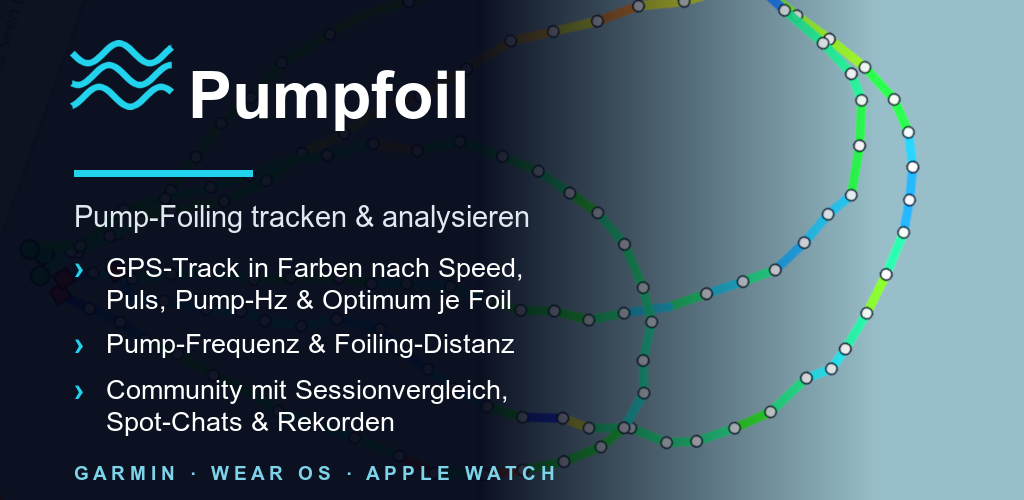
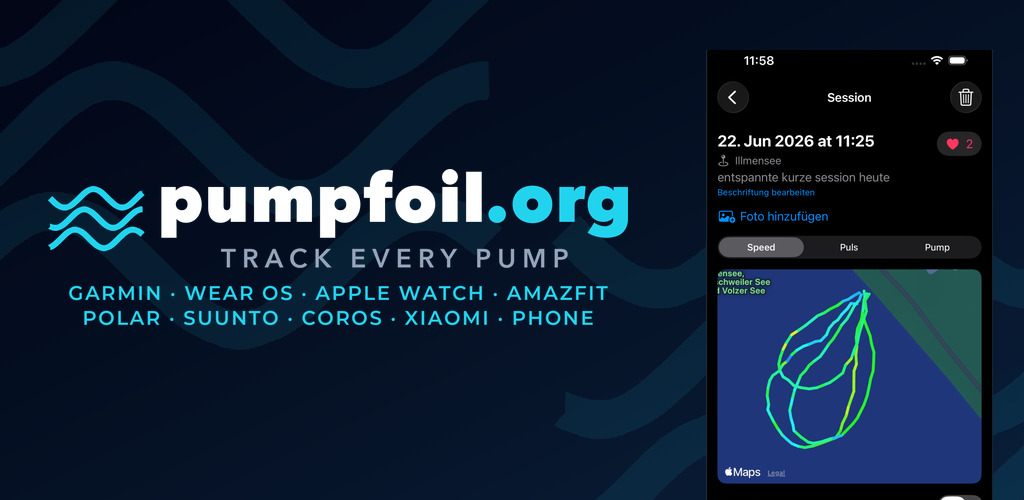
Play-Vorstellungsgrafik neu erzeugbar, mit aktueller Plattform-Liste
Die alte Grafik lag seit dem 28.06. nur als PNG da -- ohne Quelle, ohne
Generator -- und nannte drei Plattformen, waehrend es inzwischen neun sind.
Genau so veraltet etwas still: was man nicht neu erzeugen kann, zieht auch
niemand nach.

brand/master/playfeature.py erzeugt sie jetzt aus derselben Quelle wie
YouTube-Banner und Shorts-Endcards (banner.SUBLINE). Kommt eine Plattform
dazu, sind alle drei Assets mit je einem Aufruf wieder aktuell.

Rechts steht ein echter Screenshot statt der frueheren Track-Dekoration
(Jan): das Telefon aus dem Store-Bild 03 mit dem farbigen GPS-Track, unten
offen. Aus dem Store-Bild wird NUR das Geraet geschnitten, die eingebrannte
Ueberschrift bleibt draussen. Die Ausschnittkanten sind gemessen, und zwar
gegen die Hintergrundfarbe statt ueber Helligkeit -- der Gehaeuserand ist
fast so dunkel wie der Hintergrund, ein Helligkeitsschwellwert schneidet ins
Display (erster Versuch tat genau das).

Die Aufzaehlungspunkte der alten Fassung sind weg: bei 1024x500, in den
Play-Empfehlungen nochmal verkleinert, ist vier Zeilen Kleingedrucktes nicht
mehr lesbar.

Claude-Session: https://claude.ai/code/session_014ScY9MsqR76xh62UDbMKg1

diff --git a/brand/master/playfeature.py b/brand/master/playfeature.py
@@ -1,0 +1,134 @@
+#!/usr/bin/env python3
+"""Play-Store-Vorstellungsgrafik (1024x500) reproduzierbar aus der Brand-Basis.
+
+Aufruf:  ../../server/.venv/bin/python playfeature.py   (aus brand/master/)
+
+Warum es dieses Skript gibt: die bisherige Grafik lag seit dem 28.06.2026 nur als PNG in
+`brand/stores/google/` — ohne Quelle, ohne Generator. Ihre Plattform-Zeile nannte drei
+Namen (Garmin, Wear OS, Apple Watch), inzwischen sind es neun. Genau so veraltet etwas
+still: was man nicht neu erzeugen kann, zieht auch niemand nach (Jan, 05.09.2026).
+
+Inhalt und Reihenfolge kommen deshalb aus DERSELBEN Quelle wie YouTube-Banner und
+Shorts-Endcards (`banner.SUBLINE`) — kommt eine Plattform dazu, sind alle drei Assets mit
+je einem Aufruf wieder aktuell.
+
+Zum Format: 1024x500 ist klein und wird in den Play-Empfehlungen zusaetzlich verkleinert
+und teils beschnitten. Deshalb bewusst KEINE Aufzaehlungspunkte wie in der alten Fassung —
+vier Zeilen Kleingedrucktes sind dort nicht mehr lesbar. Es bleibt, was auf Briefmarken-
+groesse noch traegt: Wortmarke, Tagline, Plattform-Liste — und rechts ein echter Screenshot
+statt der frueheren Track-Dekoration (Jan, 05.09.2026).
+
+Der Screenshot kommt aus den Store-Bildern (`brand/stores/apple/iphone-6.5/03.png`, der
+farbige GPS-Track). Aus dem fertigen Store-Bild wird NUR das Telefon herausgeschnitten —
+die eingebrannte Ueberschrift bleibt draussen, sonst staenden zwei Titel im Bild. Der
+Ausschnitt ist unten offen: das Telefon laeuft aus dem Bild heraus, das wirkt lebendiger
+als ein freigestelltes Geraet in der Mitte.
+"""
+import os
+import sys
+
+sys.path.insert(0, os.path.dirname(os.path.abspath(__file__)))
+import numpy as np
+from PIL import Image
+
+import banner
+import gen
+
+W, H = 1024, 500
+OUT = os.path.join(os.path.dirname(__file__), "../stores/google/feature-graphic-1024x500.png")
+# Rand rundum. Play beschneidet die Grafik je nach Platzierung an den Seiten, deshalb bleibt
+# ringsum reichlich Luft — nichts Wichtiges nah an den Rand.
+RAND = 48
+# Quelle fuer das Telefon rechts und der Ausschnitt darin (in Pixeln des Store-Bildes,
+# 1242x2688). Die Werte sind GEMESSEN: nicht ueber Helligkeit — der Gehaeuserand ist fast so
+# dunkel wie der Hintergrund und faellt dabei durch, der Ausschnitt schnitte dann ins Display.
+# Statt dessen gegen die Hintergrundfarbe der Store-Grafik verglichen (`a[5,5]`, ein sehr
+# dunkles Navy): das Geraet liegt zwischen x=116 und x=1125 und endet bei y=2645. Oben bleibt
+# die eingebrannte Ueberschrift draussen, die endet bei y~460.
+SHOT = os.path.join(os.path.dirname(__file__), "../stores/apple/iphone-6.5/03.png")
+SHOT_BOX = (116, 500, 1126, 2646)
+# Anteil der Bildbreite, den die rechte Spalte mit dem Telefon einnimmt.
+SHOT_SPALTE = 0.34
+
+
+def verlauf() -> Image.Image:
+    """Derselbe diagonale Dreiton-Verlauf wie im Banner, nur auf dieses Format gerechnet."""
+    c0, c1, c2 = (banner._hex(f) for f in ("#020617", "#061226", "#0a1f3a"))
+    yy, xx = np.mgrid[0:H, 0:W].astype(np.float32)
+    t = ((xx / W) + (yy / H)) / 2.0
+    seg = np.where(t < 0.55, t / 0.55, (t - 0.55) / 0.45)[..., None]
+    lo = np.where((t < 0.55)[..., None], np.array(c0), np.array(c1))
+    hi = np.where((t < 0.55)[..., None], np.array(c1), np.array(c2))
+    return Image.fromarray((lo + (hi - lo) * seg).astype(np.uint8), "RGB").convert("RGBA")
+
+
+def main() -> None:
+    grund = verlauf()
+
+    # Wellen-Wasserzeichen, sehr leise — wie in Banner und Endcard, damit die Flaeche nicht
+    # tot wirkt. Zwei Reihen ueber Eck, angeschnitten.
+    wm = gen.render_waves(gen.CYAN, 420)
+    for (x, y) in ((-120, -70), (W - wm.width + 150, H - wm.height + 70)):
+        lage = Image.new("RGBA", grund.size, (0, 0, 0, 0))
+        leise = wm.copy()
+        leise.putalpha(leise.split()[3].point(lambda v: int(v * 0.09)))
+        lage.alpha_composite(leise, (x, y))
+        grund.alpha_composite(lage)
+
+    # Horizontales Lockup: Wellen links, rechts Wortmarke + Tagline — genau wie im Banner.
+    text = gen.load_text("dark", tagline=True)
+    tw, th = text.size
+    wellen = gen.render_waves(gen.CYAN, int(th * 0.66))
+    luecke = int(th * 0.17)
+    zeile_w = wellen.width + luecke + tw
+    zeile_h = max(wellen.height, th)
+    zeile = Image.new("RGBA", (zeile_w, zeile_h), (0, 0, 0, 0))
+    zeile.alpha_composite(wellen, (0, (zeile_h - wellen.height) // 2))
+    zeile.alpha_composite(text, (wellen.width + luecke, (zeile_h - th) // 2))
+
+    # Plattform-Liste zweizeilig. Bei neun Namen in einer Zeile waere die Schrift auf
+    # 1024 px Breite zu klein; zwei Zeilen halbieren die Zeichenzahl und verdoppeln damit
+    # praktisch die Groesse. Beide Zeilen mit DEMSELBEN Faktor, sonst saehen sie
+    # verschieden gross aus.
+    zeilen = [banner.subline_image(z, px=max(20, int(th * 0.24)), tracking=max(2, int(th * 0.022)))
+              for z in banner.subline_zeilen()]
+    faktor = (zeile_w * banner.SUB_BREITE) / max(z.width for z in zeilen)
+    zeilen = [z.resize((max(1, round(z.width * faktor)), max(1, round(z.height * faktor))),
+                       Image.LANCZOS) for z in zeilen]
+
+    abstand = int(th * 0.13)
+    zeilenabstand = int(zeilen[0].height * 0.04)
+    block_h = zeile_h + abstand + sum(z.height for z in zeilen) + zeilenabstand
+    block = Image.new("RGBA", (zeile_w, block_h), (0, 0, 0, 0))
+    block.alpha_composite(zeile, (0, 0))
+    y = zeile_h + abstand
+    for z in zeilen:
+        block.alpha_composite(z, ((zeile_w - z.width) // 2, y))
+        y += z.height + zeilenabstand
+
+    # Rechts das Telefon: unten offen, damit es aus dem Bild laeuft. Die Hoehe ist bewusst
+    # groesser als die Leinwand — ein vollstaendig sichtbares Geraet wirkt auf diesem flachen
+    # Format wie ein Briefmarkenbild.
+    telefon = Image.open(SHOT).convert("RGB").crop(SHOT_BOX)
+    t_h = round(H * 1.22)
+    telefon = telefon.resize((round(telefon.width * t_h / telefon.height), t_h), Image.LANCZOS)
+    spalte_x = round(W * (1 - SHOT_SPALTE))
+    t_x = spalte_x + (W - spalte_x - telefon.width) // 2
+    grund.paste(telefon, (t_x, round(H * 0.10)))
+
+    # Links der Markenblock, mittig in der verbleibenden Spalte.
+    text_breite = spalte_x - RAND
+    skala = min((text_breite - RAND) / zeile_w, (H - 2 * RAND) / block_h)
+    block = block.resize((round(zeile_w * skala), round(block_h * skala)), Image.LANCZOS)
+    grund.alpha_composite(block, (RAND + (text_breite - RAND - block.width) // 2,
+                                  (H - block.height) // 2))
+
+    os.makedirs(os.path.dirname(OUT), exist_ok=True)
+    grund.convert("RGB").save(OUT)
+    print(f"{OUT}  {W}x{H}  Block={block.width}x{block.height}  "
+          f"Listenzeile={round(zeilen[0].height * skala)} px")
+    print("Plattformen:", " | ".join(banner.subline_zeilen()))
+
+
+if __name__ == "__main__":
+    main()

diff --git a/brand/README.md b/brand/README.md
@@ -34,7 +34,7 @@ nach `app-icons/`. Nach Änderungen an `master/base/` einfach neu laufen lassen.
 | **Web / PWA** (live, `web/public/`) | `icon-512/192`, `apple-touch-icon`, `favicon-16/32`, `oauth-logo-512/120`, `wordmark-h-{dark,light}` | von `master/build.sh` erzeugt — **nicht** in `brand/` (App lädt sie per Pfad) |
 | **Connect IQ Store** (Garmin) | `stores/garmin/hero-1440x720.png`, `store-icon-500x500.png`, `device-icon-128-24bit.png`, `device-icon-128-64color.png` | Hero 1440×720, Titelbild 500×500 (<300 KB), Gerätesymbol 128 |
 | ↳ Screenshots (aus Sim) | `stores/garmin/` (Jan legt ab) | — |
-| **Google Play** (Phone) | `stores/google/feature-graphic-1024x500.png`, `app-icons/android-512.png`, `stores/google/phone/*.png` | Feature-Grafik 1024×500, Icon 512, Phone-Screenshots |
+| **Google Play** (Phone) | `stores/google/feature-graphic-1024x500.png` (Generator: `master/playfeature.py`), `app-icons/android-512.png`, `stores/google/phone/*.png` | Feature-Grafik 1024×500, Icon 512, Phone-Screenshots |
 | **Google Play** (Wear) | `stores/google/wear-os/*.png` | 384×384 oder 454×454 (rund) |
 | **App Store** (iPhone) | `app-icons/icon-1024-light.png`, `stores/apple/iphone-6.5/*.png` | Icon 1024, 6.5″-Screenshots |
 | **App Store** (Apple Watch) | `stores/apple/apple-watch/*.png` | watchOS-Screenshots (Sim) |
